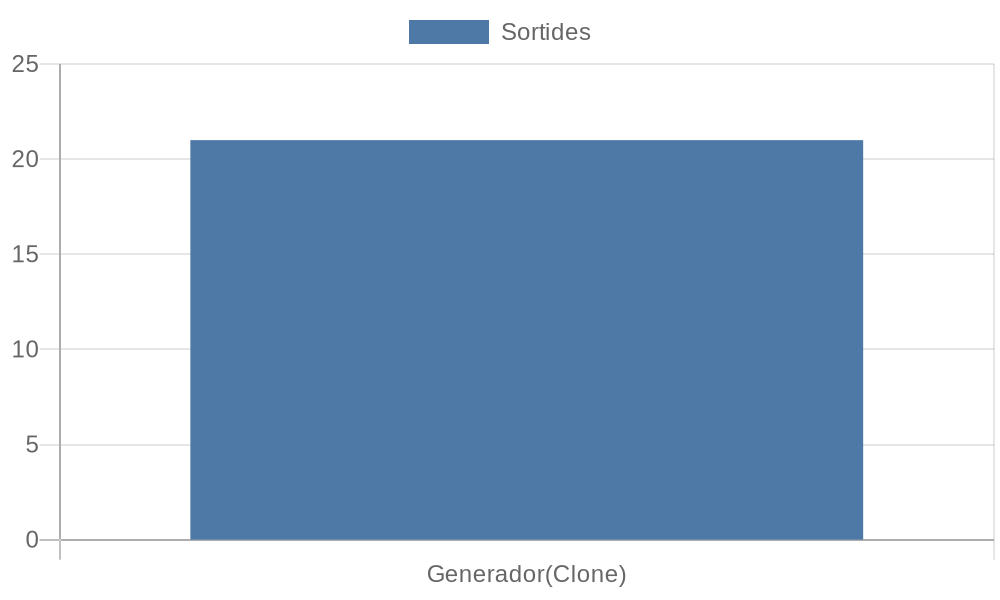
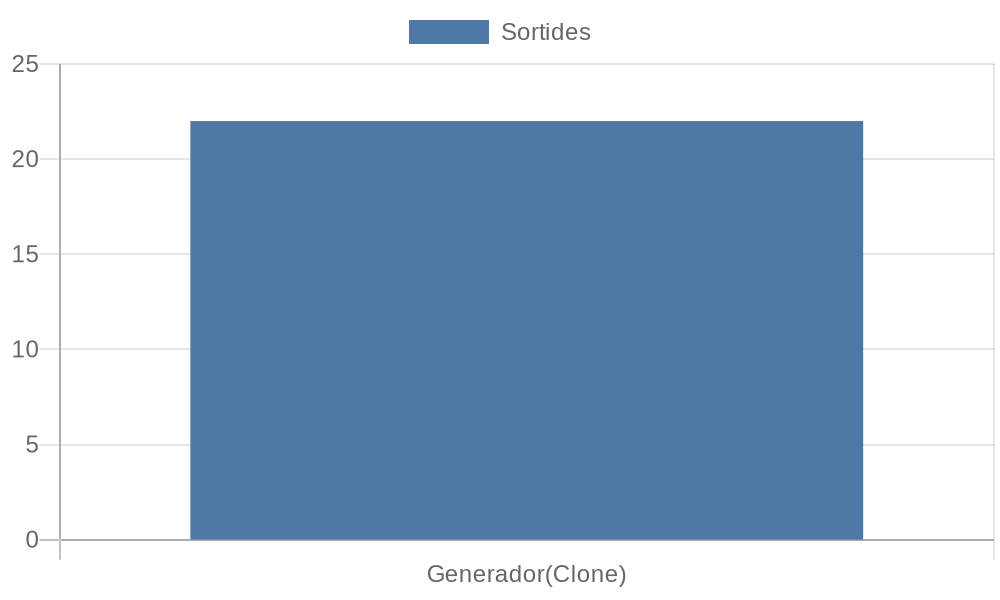
DEVM5 | Acaba d'implementar la generacio dels diferents estadistics dels diferents objectes de la llibreria

Changed region(s): [[0.186, 0.18, 0.868, 0.24]]

diff --git a/Assets/Scripts/Objectes/ProcessadorScript.cs b/Assets/Scripts/Objectes/ProcessadorScript.cs
@@ -18,13 +18,16 @@ public class ProcessadorScript : MonoBehaviour, IObjectes, ITractarEsdeveniment
     public List<GameObject> SeguentsObjectes = new List<GameObject>(); 
     private List<GameObject> entitatsProcessant;
     //Variables per als estadistics
-    private int nEntitatsTractades = 0;
     private int nEntitatsEnviades = 0;
     private double tempsMigEntitatsProcessador;
     private enum estats { DISPONIBLE, PROCESSANT, BLOQUEJAT };
     private estats estat;
     private Queue<GameObject> entitatsAEnviar;
     private Queue<GameObject> objectesRebutjats;
+    private float tempsDisponible = 0;
+    private float tempsProcessat = 0;
+    private float tempsBloquejat = 0;
+    private float ultimTemps = 0;
 
 
 
@@ -40,11 +43,15 @@ public class ProcessadorScript : MonoBehaviour, IObjectes, ITractarEsdeveniment
 
     public void IniciaSimulacio(){
         estat = estats.DISPONIBLE;
-        nEntitatsTractades = 0;
+        nEntitatsEnviades = 0;
         tempsMigEntitatsProcessador = 0;
         entitatsAEnviar = new Queue<GameObject>();
         objectesRebutjats = new Queue<GameObject>();
         entitatsProcessant = new List<GameObject>();
+        tempsDisponible = 0;
+        tempsProcessat = 0;
+        tempsBloquejat = 0;
+        ultimTemps = 0;
     }
 
     public void intentaEliminarObjecteSeguents(GameObject objecte){
@@ -69,11 +76,13 @@ public class ProcessadorScript : MonoBehaviour, IObjectes, ITractarEsdeveniment
         {
             case Esdeveniment.Tipus.PROCESSOS:
                 if (estat == estats.PROCESSANT){
-                    ++nEntitatsTractades;
+                    tempsProcessat += (e.temps-ultimTemps);
+                    ultimTemps = e.temps;
                     GameObject entitat = e.ObteEntitatImplicada();
                     entitatsProcessant.Remove(entitat);
                     int nDisponible = cercaDisponible();
                     if (nDisponible != -1) {
+                        ++nEntitatsEnviades;
                         SeguentsObjectes[nDisponible].GetComponent<IObjectes>().repEntitat(entitat, this.gameObject);
                         while (objectesRebutjats.Count != 0) {
                             // A la funcio AvisaDisponibilitat es fa un Dequeue del objectesRebutjats
@@ -90,7 +99,8 @@ public class ProcessadorScript : MonoBehaviour, IObjectes, ITractarEsdeveniment
                 }
                 
                 else if (estat == estats.BLOQUEJAT){
-                    ++nEntitatsTractades;
+                    tempsBloquejat += (e.temps-ultimTemps);
+                    ultimTemps = e.temps;
                     GameObject entitat = e.ObteEntitatImplicada();
                     entitatsProcessant.Remove(entitat);
                     if (entitatsAEnviar.Count > 0){
@@ -99,6 +109,7 @@ public class ProcessadorScript : MonoBehaviour, IObjectes, ITractarEsdeveniment
                     } else {
                         int nDisponible = cercaDisponible();
                         if (nDisponible != -1){
+                            ++nEntitatsEnviades;
                             SeguentsObjectes[nDisponible].GetComponent<IObjectes>().repEntitat(entitat, this.gameObject);
                             while (objectesRebutjats.Count != 0) {
                                 // A la funcio AvisaDisponibilitat es fa un Dequeue del objectesRebutjats
@@ -126,8 +137,17 @@ public class ProcessadorScript : MonoBehaviour, IObjectes, ITractarEsdeveniment
 
     public bool estaDisponible(GameObject objecteLlibreria)
     {
-        if (estat != estats.BLOQUEJAT) return true;
+        if (estat != estats.BLOQUEJAT){
+            float tActual = transform.parent.GetComponent<MotorSimuladorScript>().ObteTempsActual();
+            if (estat == estats.DISPONIBLE) tempsDisponible += (tActual-ultimTemps);
+            else if (estat == estats.PROCESSANT) tempsProcessat += (tActual-ultimTemps);
+            ultimTemps = tActual;
+            return true;  
+        } 
         else {
+            float tActual = transform.parent.GetComponent<MotorSimuladorScript>().ObteTempsActual();
+            tempsBloquejat += (tActual-ultimTemps);
+            ultimTemps = tActual;
             if (!objectesRebutjats.Contains(objecteLlibreria)) objectesRebutjats.Enqueue(objecteLlibreria);
         }
         return false;
@@ -138,12 +158,16 @@ public class ProcessadorScript : MonoBehaviour, IObjectes, ITractarEsdeveniment
         entitat.transform.position = transform.position + new Vector3(0,+1,0);
         if (estat == estats.DISPONIBLE){
             float tActual = transform.parent.GetComponent<MotorSimuladorScript>().ObteTempsActual();
+            tempsDisponible += (tActual-ultimTemps);
+            ultimTemps = tActual;
             generarEsdevenimentProces(entitat, tActual);
             if (maxEntitatsParalel == 1) estat = estats.BLOQUEJAT;
             else estat = estats.PROCESSANT;
         }
         else if (estat == estats.PROCESSANT){
             float tActual = transform.parent.GetComponent<MotorSimuladorScript>().ObteTempsActual();
+            tempsProcessat += (tActual-ultimTemps);
+            ultimTemps = tActual;
             generarEsdevenimentProces(entitat, tActual);
             if (maxEntitatsParalel != -1 && maxEntitatsParalel > entitatsProcessant.Count) estat = estats.PROCESSANT;
             else estat = estats.BLOQUEJAT;
@@ -152,8 +176,20 @@ public class ProcessadorScript : MonoBehaviour, IObjectes, ITractarEsdeveniment
 
     public bool notificacioDisponible(GameObject objecteLlibreria)
     {
-        if (estat == estats.DISPONIBLE || estat == estats.PROCESSANT) return false;
+        float tActual = transform.parent.GetComponent<MotorSimuladorScript>().ObteTempsActual();
+        if (estat == estats.DISPONIBLE){
+            tempsDisponible += (tActual-ultimTemps);
+            ultimTemps = tActual;
+            return false;
+        }
+        else if (estat == estats.PROCESSANT){
+            tempsProcessat += (tActual-ultimTemps);
+            ultimTemps = tActual;
+            return false;
+        }
         else if (estat == estats.BLOQUEJAT){
+            tempsBloquejat += (tActual-ultimTemps);
+            ultimTemps = tActual;
             if (entitatsAEnviar.Count > 0){
                 ++nEntitatsEnviades;
                 GameObject entitat = entitatsAEnviar.Dequeue();
@@ -244,7 +280,24 @@ public class ProcessadorScript : MonoBehaviour, IObjectes, ITractarEsdeveniment
     }
 
     public void GenerarPlots(){
-        // Per implementar
+        EstadisticsController eC = transform.parent.GetComponent<EstadisticsController>();
+
+        float tempsActual = (transform.parent.GetComponent<MotorSimuladorScript>().ObteTempsActual());
+        if (estat == estats.DISPONIBLE) tempsDisponible += (tempsActual - ultimTemps); 
+        else if (estat == estats.PROCESSANT) tempsProcessat += (tempsActual - ultimTemps);
+        else tempsBloquejat = (tempsActual - ultimTemps);
+        double[] tempsEstats = new double[3] { tempsDisponible, tempsProcessat, tempsBloquejat };
+        string[] etiquetes = new string[3] { "Disponible", "Processant", "Bloquejat" };
+        string nomImatge = "TempsEstats"+gameObject.transform.name;
+        eC.GeneraEstadistic(0, tempsEstats, etiquetes, "Temps", nomImatge);
+
+        nomImatge = "PercentatgeEstats"+gameObject.transform.name;
+        eC.GeneraEstadistic(2, tempsEstats, etiquetes, "Percentatge", nomImatge);
+
+        double[] nEntitatsEstadistic = new double[1] { nEntitatsEnviades };
+        etiquetes = new string[1] { gameObject.transform.name };
+        nomImatge = "Output"+gameObject.transform.name;
+        eC.GeneraEstadistic(0, nEntitatsEstadistic, etiquetes, "Sortides",nomImatge);
     }
 
     //////////////////////////////////////////////////////////////////////

diff --git a/Assets/Scripts/Objectes/CuaScript.cs b/Assets/Scripts/Objectes/CuaScript.cs
@@ -16,6 +16,12 @@ public class CuaScript : MonoBehaviour, IObjectes
     private enum states { BUIT, NOBUIT, PLE };
     private states estat;
 
+    private float tempsBuit = 0;
+    private float tempsNoBuit = 0;
+    private float tempsPle = 0;
+    private float ultimTemps = 0;
+    private int entitatsEnviades = 0;
+
 
     void Start()
     {
@@ -30,6 +36,11 @@ public class CuaScript : MonoBehaviour, IObjectes
         objectesRebutjats = new Queue<GameObject>();
         tempsObjecteCua = new Dictionary<GameObject, double>();
         cuaObjecte = new Queue<GameObject>();
+        tempsBuit = 0;
+        tempsNoBuit = 0;
+        tempsPle = 0;
+        ultimTemps = 0;
+        entitatsEnviades = 0;
     }
 
     public void intentaEliminarObjecteSeguents(GameObject objecte){
@@ -46,9 +57,16 @@ public class CuaScript : MonoBehaviour, IObjectes
     public bool estaDisponible(GameObject objecteLlibreria)
     {
         if (capacitatMaxima == -1 || cuaObjecte.Count < capacitatMaxima){
+            float tActual = transform.parent.GetComponent<MotorSimuladorScript>().ObteTempsActual();
+            if (estat == states.BUIT) tempsBuit += (tActual-ultimTemps);
+            else if (estat == states.NOBUIT) tempsNoBuit += (tActual-ultimTemps);
+            ultimTemps = tActual;
             return true;
         } 
         else{
+            float tActual = transform.parent.GetComponent<MotorSimuladorScript>().ObteTempsActual();
+            tempsPle += (tActual-ultimTemps);
+            ultimTemps = tActual;
             if (!objectesRebutjats.Contains(objecteLlibreria))  objectesRebutjats.Enqueue(objecteLlibreria);
             return false;
         }
@@ -61,17 +79,22 @@ public class CuaScript : MonoBehaviour, IObjectes
             cuaObjecte.Enqueue(entitat);
             float tActual = transform.parent.GetComponent<MotorSimuladorScript>().ObteTempsActual();
             tempsObjecteCua.Add(entitat, tActual);
+            tempsNoBuit += (tActual - ultimTemps);
+            ultimTemps = tActual;
             if (capacitatMaxima != -1 && cuaObjecte.Count < capacitatMaxima) estat = states.NOBUIT;
             else estat = states.PLE;
         }
         else if (estat == states.BUIT){
+            float tActual = transform.parent.GetComponent<MotorSimuladorScript>().ObteTempsActual();
             int nDisponible = cercaDisponible();
+            tempsBuit += (tActual - ultimTemps);
+            ultimTemps = tActual;
             if (nDisponible != -1){
                 SeguentsObjectes[nDisponible].GetComponent<IObjectes>().repEntitat(entitat, this.gameObject);
                 tempsObjecteCua.Add(entitat, 0);
+                ++entitatsEnviades;
             } else {
                 cuaObjecte.Enqueue(entitat);
-                float tActual = transform.parent.GetComponent<MotorSimuladorScript>().ObteTempsActual();
                 tempsObjecteCua.Add(entitat, tActual);
                 if (capacitatMaxima!=-1 && capacitatMaxima > 1) estat = states.NOBUIT;
                 else estat = states.PLE;
@@ -108,11 +131,19 @@ public class CuaScript : MonoBehaviour, IObjectes
     // Retorna fals si no pot enviar cap entitat al que ha avisat que esta disponible
     public bool notificacioDisponible(GameObject objecteLlibreria)
     {
-        if (estat == states.BUIT) return false;
+        float tActual = transform.parent.GetComponent<MotorSimuladorScript>().ObteTempsActual();
+        if (estat == states.BUIT){
+            tempsBuit += (tActual - ultimTemps);
+            ultimTemps = tActual;
+            return false;
+        }
         else if (estat == states.NOBUIT){
+            tempsNoBuit += (tActual - ultimTemps);
+            ultimTemps = tActual;
             GameObject entitat = cuaObjecte.Dequeue();
             float tempsCua = (float)transform.parent.GetComponent<MotorSimuladorScript>().ObteTempsActual() - (float)tempsObjecteCua[entitat];
             tempsObjecteCua[entitat] = tempsCua;
+            ++entitatsEnviades;
             objecteLlibreria.GetComponent<IObjectes>().repEntitat(entitat, this.gameObject);
 
 
@@ -146,9 +177,12 @@ public class CuaScript : MonoBehaviour, IObjectes
             
         }
         else if (estat == states.PLE){
+            tempsPle += (tActual - ultimTemps);
+            ultimTemps = tActual;
             GameObject entitat = cuaObjecte.Dequeue();
             float tempsCua = (float)transform.parent.GetComponent<MotorSimuladorScript>().ObteTempsActual() - (float)tempsObjecteCua[entitat];
             tempsObjecteCua[entitat] = tempsCua;
+            ++entitatsEnviades;
             objecteLlibreria.GetComponent<IObjectes>().repEntitat(entitat, this.gameObject);
 
 
@@ -219,7 +253,24 @@ public class CuaScript : MonoBehaviour, IObjectes
     }
 
     public void GenerarPlots(){
-        // Per implementar
+        EstadisticsController eC = transform.parent.GetComponent<EstadisticsController>();
+
+        float tempsActual = (transform.parent.GetComponent<MotorSimuladorScript>().ObteTempsActual());
+        if (estat == states.BUIT) tempsBuit += (tempsActual - ultimTemps); 
+        else if (estat == states.NOBUIT) tempsNoBuit += (tempsActual - ultimTemps);
+        else tempsPle = (tempsActual - ultimTemps);
+        double[] tempsEstats = new double[3] { tempsBuit, tempsNoBuit, tempsPle };
+        string[] etiquetes = new string[3] { "Buit", "NoBuit", "Ple" };
+        string nomImatge = "TempsEstats"+gameObject.transform.name;
+        eC.GeneraEstadistic(0, tempsEstats, etiquetes, "Temps", nomImatge);
+
+        nomImatge = "PercentatgeEstats"+gameObject.transform.name;
+        eC.GeneraEstadistic(2, tempsEstats, etiquetes, "Percentatge", nomImatge);
+
+        double[] nEntitatsEstadistic = new double[1] { entitatsEnviades };
+        etiquetes = new string[1] { gameObject.transform.name };
+        nomImatge = "Output"+gameObject.transform.name;
+        eC.GeneraEstadistic(0, nEntitatsEstadistic, etiquetes, "Sortides",nomImatge);
     }
 
     //////////////////////////////////////////////////////////////////////

diff --git a/Assets/Scripts/Objectes/SortidaScript.cs b/Assets/Scripts/Objectes/SortidaScript.cs
@@ -71,7 +71,11 @@ public class SortidaScript : MonoBehaviour, IObjectes
     }
 
     public void GenerarPlots(){
-        // Per implementar
+        EstadisticsController eC = transform.parent.GetComponent<EstadisticsController>();
+        double[] nEntitatsEstadistic = new double[1] { nEntitatsDestruides };
+        string [] etiquetes = new string[1] { gameObject.transform.name };
+        string nomImatge = "Output"+gameObject.transform.name;
+        eC.GeneraEstadistic(0, nEntitatsEstadistic, etiquetes, "Sortides",nomImatge);
     }
 
     //////////////////////////////////////////////////////////////////////

diff --git a/Assets/Scripts/MotorSimuladorScript.cs b/Assets/Scripts/MotorSimuladorScript.cs
@@ -65,7 +65,7 @@ public class MotorSimuladorScript : MonoBehaviour
 
     public void ExecutarSeguentEsdeveniment(){
         if (llistaEsdevenmients.Count == 0 && tempsActual == 0) IniciaSimulacio();
-        else {
+        else if (llistaEsdevenmients.Count > 0){
             Esdeveniment eActual = llistaEsdevenmients.Dequeue();
             tempsActual = eActual.temps;
             eActual.Executar();
